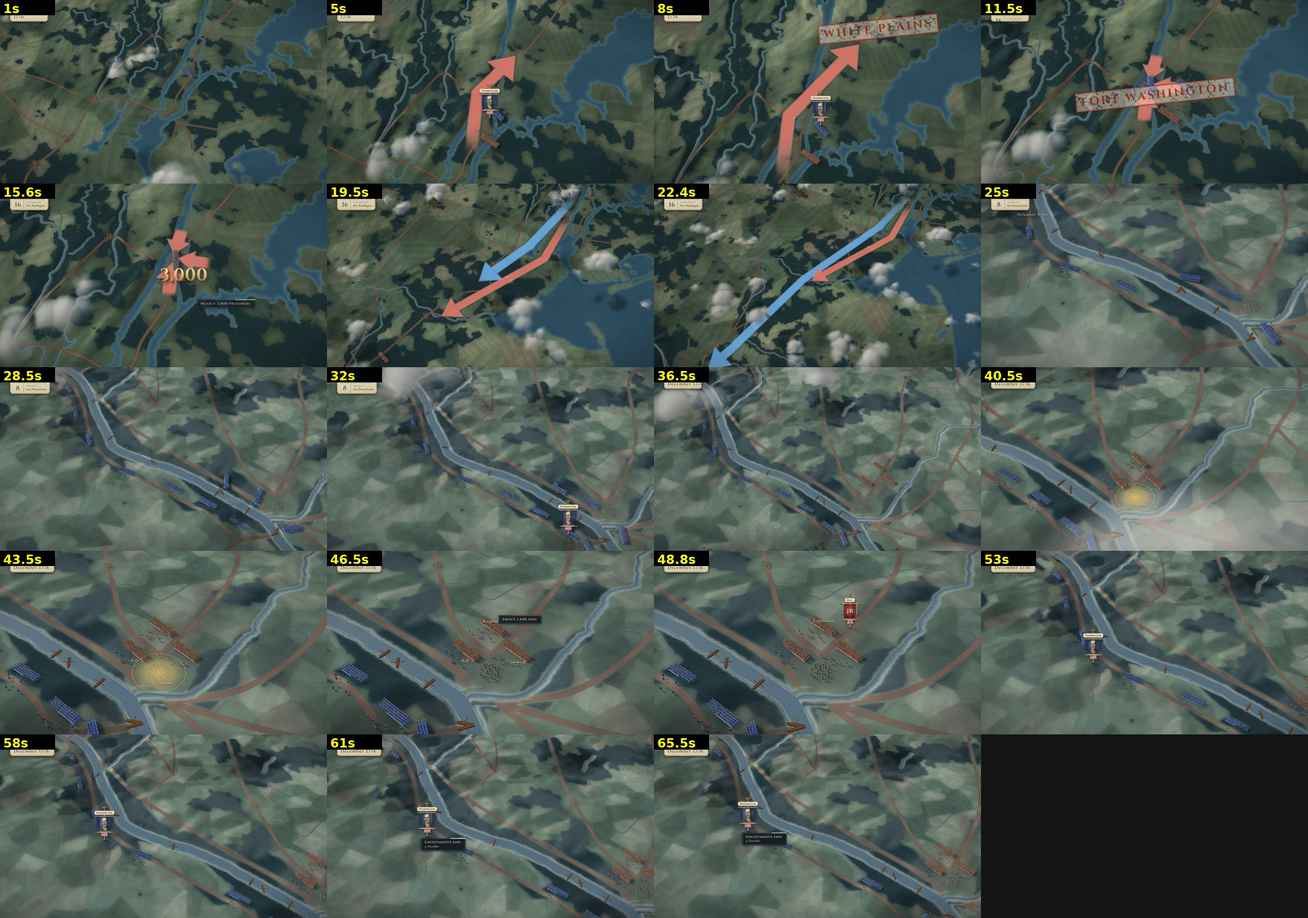
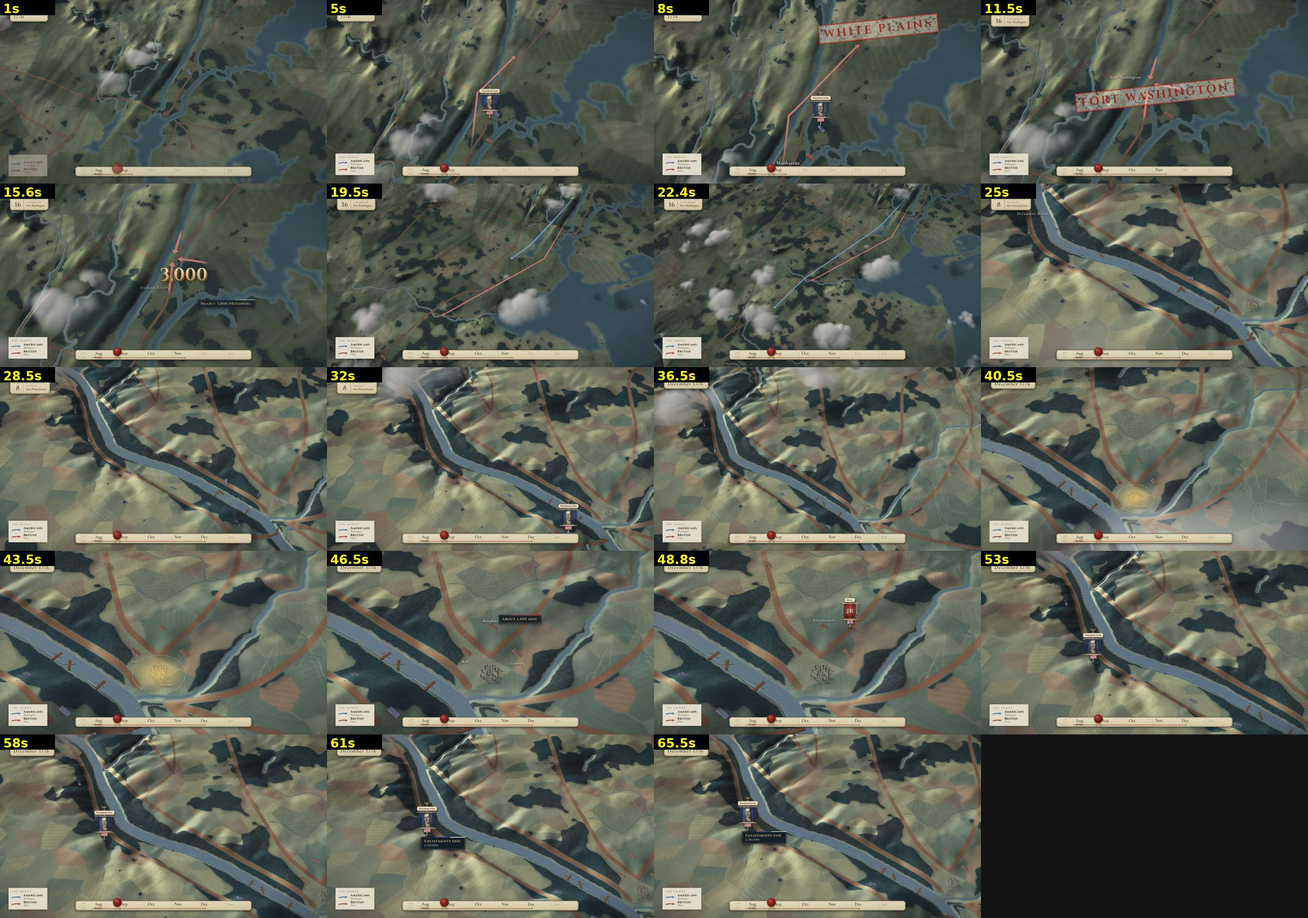
Washington v2: S03 S04 S06 on the v2 look (author B)
Claude-Session: https://claude.ai/code/session_011uJnjBmWWPVu63DLzFZfyj

diff --git a/washington/tools/make_configs.py b/washington/tools/make_configs.py
@@ -282,7 +282,7 @@ write("princeton", {
          "clash point), the Olden house, Frog Hollow. Zoom-11 frame. Carnegie Lake (1906) and the D&R canal (1834) are modern: filled.",
  "box": pb, "focus": pl("William Clarke orchard", Z),
  "stills": [{"at": [pb[0] + pb[2] / 2, pb[1] + pb[3] / 2], "dist": 100, "tilt": 34, "yaw": 0}, {"at": pl("William Clarke orchard", Z), "dist": 42, "tilt": 48, "yaw": -8},
-            {"at": pl("Nassau Hall", Z), "dist": 24, "tilt": 56, "yaw": 12}],
+            {"at": [1476.4, 1849.8], "dist": 7, "tilt": 58, "yaw": 20}],   # r3 carry-over: the Stony Brook bridge close-up
  "hm_ppu": 8, "tex": 4096, "exag": 3.8, "cell": 1.85, "gm_unit": 0.45, "track_k": 0.5, "seed": 1777, "relief_noise": [2.0, 0.6],
  "dem_ppu": 8, "dem_margin": 6, "dem_edits": {"fill_water": True, "flat_sd": 0.15, "flat_low": 0.5, "spike_m": 25.0},
  "creek_km2": 0.4, "creeks": {"paint_km2": 0.8, "ribbon_km2": 1e9},

diff --git a/washington/sequences/S03/NOTES.md b/washington/sequences/S03/NOTES.md
@@ -63,3 +63,14 @@ Checks: check_troops_motion brooklyn 0-153.84: 0 overlaps, 0 pops; turn spikes o
 - Dive landing: `to` at [2487.5, 1162] dist 74 -> 60, the 11.0 key dist 62, `off.clear` 0.75 / haze 1.0: no flat world edge at the right (snaps every 0.3 s, 4.2-9 s).
 - Covering-force shots ~25 % closer (dist 33/29/30 -> 25/22/23), label 17 -> 20.
 - Checks: brooklyn FAIL rows only after the 70.9 dissolve (off-frame).
+
+## V2 (owner decision 22: the approved v8 / v14 tests are the look)
+- seq.js = the approved `_v2test_b` (built from this scene) + the film-only parts: troopsOpts v14 (size 1.44, depthK 0.44, steel-blue pal),
+  brooklyn ts 1.15 / fxScale 7.5, colonies ts 6; v8 wide grade + the tested night veil; night 1.0 + film.grade night/day; rain veil x0.5, n 1800;
+  boats `wake: false`, `lamp: true`, `lampK 0.5`; clocks 20:00 / 23:00 / 26:00 (FACT 21-22); legend (sub Howe) T.d29+0.4 -> T.about-0.6 and on the
+  colonies tail; timeline from T.d29 (Aug), seal "Brooklyn" on "the last of them"; out for the method letter, back (with the seal) on the colonies tail;
+  small parchment ledger top-right (9,000 across / Nearly all the guns / A handful left behind) instead of the big card, no film.dim;
+  carved "Brooklyn ferry" + "Brooklyn"; colonies clouds seed 11 / n 24 / med 15, colonies arrow width 0.34.
+- Kept: whooshAt 1.4, dive off (clear 1.0), word timings, no negative times, the escape decks.
+- Units stay n 2 as in the approved test (escapes over the landing decks); checker: spikes only on the 70.9 / 76.7 / 91.0 / 105.4 / 118.4 cut
+  frames, FvV rows of the camp regiments after the 70.9 dissolve (off-frame); 0 overlaps.

diff --git a/washington/sequences/S06/NOTES.md b/washington/sequences/S06/NOTES.md
@@ -38,3 +38,14 @@ Open issues: the town houses (two dense rows on King / Queen St) partly hide the
 
 ## Round 5
 - Cornwallis banner (Trenton) 3 u south (y 2059.4) and in at 54.2, inside the frame.
+
+## V2 (owner decision 22)
+- v14 troopsOpts; jersey ts 2.0, trenton ts 1.0 / fxScale 6.2; v8 wide grade + night veil, night keys 1.0 + film.grade night on "stopped".
+- One block per unit: Cornwallis's column = 4 ranks x 2 single blocks (1.3 u apart).
+- Musketry v14 (VO x KF 0.63): each bridge volley lasts 2.2 s but fires once (volley 2.4, roll <= 0.4), so the cues stay 43.0-50.12 (in the word gaps)
+  and the last flash is before 50.4; jersey rifle volleys >= 2.2 s (last cue 32.05, before the 32.45 cut).
+- Assaults stage 4 u from the creek (ts 1.0 walks ~1 u/s), retreat over 5 s: no flips.
+- Legend (sub Cornwallis) 0.9 -> the decision card; timeline (Brooklyn + Trenton sealed) at 4.9 -> 5.1 on "second of January", hidden at 32.2
+  (the Trenton close shots frame the blue line low); bridge keys 1 u south.
+- Checks: trenton 0 FAIL, side gap 0 (both regions); jersey: turn 46-69 deg/s on the landing blocks during the 13 s pan, FvV 20-22 deg on two
+  rear red blocks, the 32.5 cut.

diff --git a/washington/sequences/S04/NOTES.md b/washington/sequences/S04/NOTES.md
@@ -31,3 +31,9 @@ Open issues: blue camp blocks are small at dist 104-134 (troopScale 3.2 = Jackso
 
 ## Round 3
 - No S04 rows; rebuilt on the latest jersey bake (folder 24.4 MB). Checker jersey + colonies 0 FAIL. No negative overlay times.
+
+## V2 (owner decision 22)
+- seq.js = the approved `_v2test_a` (built from this scene): v14 troopsOpts, v8 wide grade, colonies ts 6, arrows 0.34, clouds seed 11 / n 24 / med 15,
+  legend (sub Howe) all through, timeline 1.5 -> 3.5 on "sixteenth" -> 4.25 on "eighth" (Brooklyn sealed), carved Manhattan / Fort Washington /
+  Hudson River; plus jersey ts 2.0 (recipe table: 0.020 x dist 54-112). Checks jersey + colonies: 0 FAIL, 0 overlaps.
+- Note: at ts 2.0 the jersey posts / camp are small (v8 wide size); the recipe value is kept.
